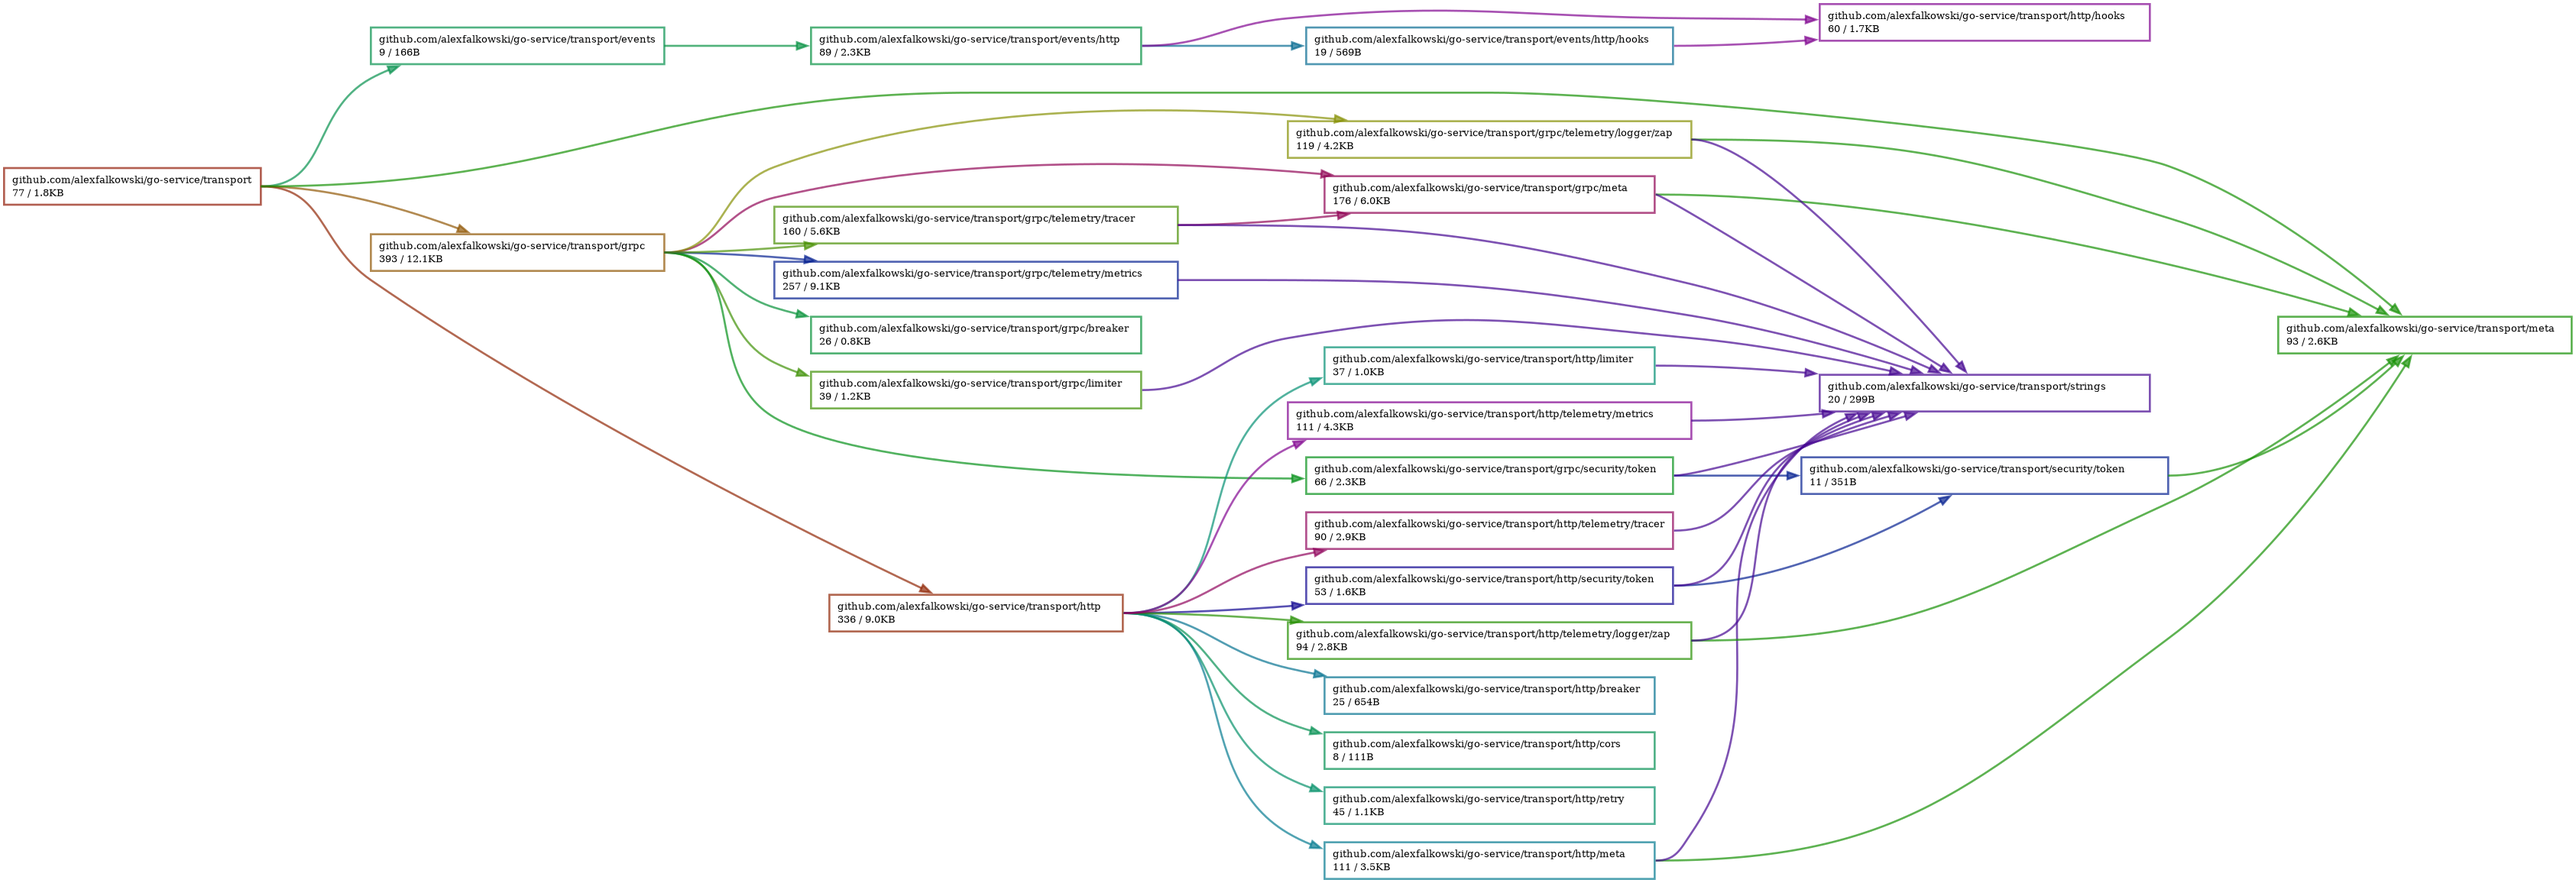
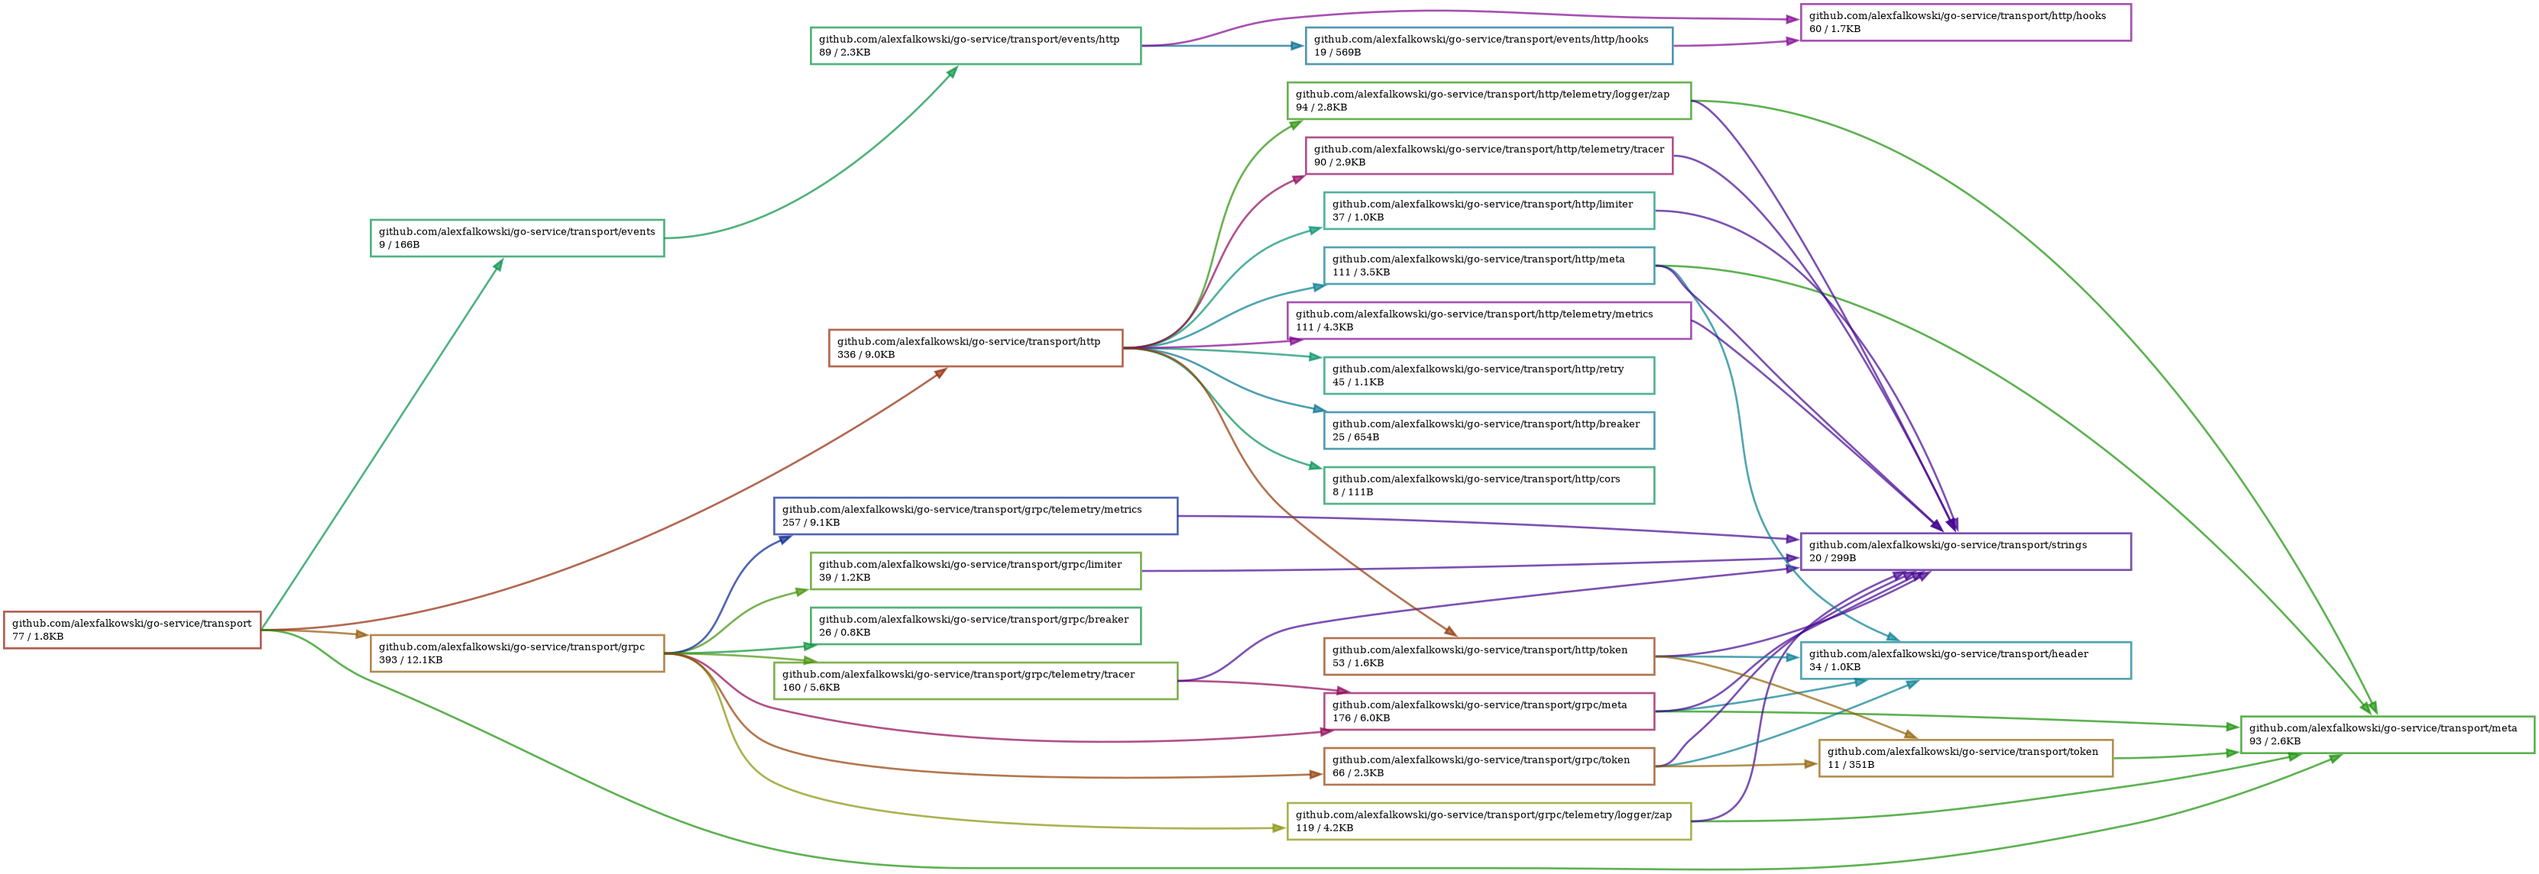
feat(transport): remove security package (#931)

diff --git a/transport/http/client.go b/transport/http/client.go
@@ -5,7 +5,7 @@ import (
 	"net/http"
 	"time"
 
-	st "github.com/alexfalkowski/go-service/crypto/tls"
+	ct "github.com/alexfalkowski/go-service/crypto/tls"
 	"github.com/alexfalkowski/go-service/env"
 	nh "github.com/alexfalkowski/go-service/net/http"
 	"github.com/alexfalkowski/go-service/net/http/h2c"
@@ -15,10 +15,10 @@ import (
 	"github.com/alexfalkowski/go-service/transport/http/breaker"
 	"github.com/alexfalkowski/go-service/transport/http/meta"
 	"github.com/alexfalkowski/go-service/transport/http/retry"
-	tkn "github.com/alexfalkowski/go-service/transport/http/security/token"
 	logger "github.com/alexfalkowski/go-service/transport/http/telemetry/logger/zap"
 	hm "github.com/alexfalkowski/go-service/transport/http/telemetry/metrics"
-	ht "github.com/alexfalkowski/go-service/transport/http/telemetry/tracer"
+	tt "github.com/alexfalkowski/go-service/transport/http/telemetry/tracer"
+	ht "github.com/alexfalkowski/go-service/transport/http/token"
 	"github.com/klauspost/compress/gzhttp"
 	"go.opentelemetry.io/otel/metric"
 	"go.opentelemetry.io/otel/trace"
@@ -125,12 +125,12 @@ func WithClientUserAgent(userAgent env.UserAgent) ClientOption {
 }
 
 // WithClientTLS for HTTP.
-func WithClientTLS(sec *st.Config) (ClientOption, error) {
-	if !st.IsEnabled(sec) {
+func WithClientTLS(sec *ct.Config) (ClientOption, error) {
+	if !ct.IsEnabled(sec) {
 		return none, nil
 	}
 
-	conf, err := st.NewConfig(sec)
+	conf, err := ct.NewConfig(sec)
 	if err != nil {
 		return none, err
 	}
@@ -167,7 +167,7 @@ func NewRoundTripper(opts ...ClientOption) http.RoundTripper {
 	}
 
 	if os.gen != nil {
-		hrt = tkn.NewRoundTripper(os.gen, hrt)
+		hrt = ht.NewRoundTripper(os.gen, hrt)
 	}
 
 	if os.logger != nil {
@@ -179,7 +179,7 @@ func NewRoundTripper(opts ...ClientOption) http.RoundTripper {
 	}
 
 	if os.tracer != nil {
-		hrt = ht.NewRoundTripper(os.tracer, hrt)
+		hrt = tt.NewRoundTripper(os.tracer, hrt)
 	}
 
 	hrt = meta.NewRoundTripper(os.userAgent, hrt)

diff --git a/transport/http/server.go b/transport/http/server.go
@@ -4,21 +4,21 @@ import (
 	"net/http"
 	"time"
 
-	st "github.com/alexfalkowski/go-service/crypto/tls"
+	ct "github.com/alexfalkowski/go-service/crypto/tls"
 	"github.com/alexfalkowski/go-service/env"
 	"github.com/alexfalkowski/go-service/errors"
 	lm "github.com/alexfalkowski/go-service/limiter"
 	sh "github.com/alexfalkowski/go-service/net/http"
 	"github.com/alexfalkowski/go-service/security/token"
 	"github.com/alexfalkowski/go-service/server"
-	t "github.com/alexfalkowski/go-service/time"
+	st "github.com/alexfalkowski/go-service/time"
 	"github.com/alexfalkowski/go-service/transport/http/cors"
 	hl "github.com/alexfalkowski/go-service/transport/http/limiter"
 	"github.com/alexfalkowski/go-service/transport/http/meta"
-	tkn "github.com/alexfalkowski/go-service/transport/http/security/token"
 	logger "github.com/alexfalkowski/go-service/transport/http/telemetry/logger/zap"
 	"github.com/alexfalkowski/go-service/transport/http/telemetry/metrics"
 	"github.com/alexfalkowski/go-service/transport/http/telemetry/tracer"
+	ht "github.com/alexfalkowski/go-service/transport/http/token"
 	"github.com/klauspost/compress/gzhttp"
 	"github.com/sethvargo/go-limiter"
 	"github.com/urfave/negroni/v3"
@@ -68,7 +68,7 @@ func NewServer(params ServerParams) (*Server, error) {
 	}
 
 	if params.Verifier != nil {
-		n.Use(tkn.NewHandler(params.Verifier))
+		n.Use(ht.NewHandler(params.Verifier))
 	}
 
 	if params.Limiter != nil {
@@ -109,11 +109,11 @@ func config(cfg *Config) (*sh.Config, error) {
 		Address: cfg.GetAddress(":8080"),
 	}
 
-	if !st.IsEnabled(cfg.TLS) {
+	if !ct.IsEnabled(cfg.TLS) {
 		return c, nil
 	}
 
-	tls, err := st.NewConfig(cfg.TLS)
+	tls, err := ct.NewConfig(cfg.TLS)
 	c.TLS = tls
 
 	return c, err
@@ -124,5 +124,5 @@ func timeout(cfg *Config) time.Duration {
 		return time.Minute
 	}
 
-	return t.MustParseDuration(cfg.Timeout)
+	return st.MustParseDuration(cfg.Timeout)
 }

diff --git a/transport/grpc/token/token.go b/transport/grpc/token/token.go
@@ -5,10 +5,10 @@ import (
 	"fmt"
 	"path"
 
-	"github.com/alexfalkowski/go-service/security/header"
 	"github.com/alexfalkowski/go-service/security/token"
-	st "github.com/alexfalkowski/go-service/transport/security/token"
+	"github.com/alexfalkowski/go-service/transport/header"
 	"github.com/alexfalkowski/go-service/transport/strings"
+	tt "github.com/alexfalkowski/go-service/transport/token"
 	middleware "github.com/grpc-ecosystem/go-grpc-middleware/v2"
 	"google.golang.org/grpc"
 	"google.golang.org/grpc/codes"
@@ -24,7 +24,7 @@ func UnaryServerInterceptor(verifier token.Verifier) grpc.UnaryServerInterceptor
 			return handler(ctx, req)
 		}
 
-		ctx, err := st.Verify(ctx, verifier)
+		ctx, err := tt.Verify(ctx, verifier)
 		if err != nil {
 			return nil, status.Errorf(codes.Unauthenticated, "verify token: %s", err.Error())
 		}
@@ -43,7 +43,7 @@ func StreamServerInterceptor(verifier token.Verifier) grpc.StreamServerIntercept
 
 		ctx := stream.Context()
 
-		ctx, err := st.Verify(ctx, verifier)
+		ctx, err := tt.Verify(ctx, verifier)
 		if err != nil {
 			return status.Errorf(codes.Unauthenticated, "verify token: %s", err.Error())
 		}

diff --git a/transport/http/token/token.go b/transport/http/token/token.go
@@ -6,10 +6,10 @@ import (
 
 	"github.com/alexfalkowski/go-service/errors"
 	nh "github.com/alexfalkowski/go-service/net/http"
-	"github.com/alexfalkowski/go-service/security/header"
 	"github.com/alexfalkowski/go-service/security/token"
-	st "github.com/alexfalkowski/go-service/transport/security/token"
+	"github.com/alexfalkowski/go-service/transport/header"
 	"github.com/alexfalkowski/go-service/transport/strings"
+	tt "github.com/alexfalkowski/go-service/transport/token"
 )
 
 // Handler for token.
@@ -31,7 +31,7 @@ func (h *Handler) ServeHTTP(res http.ResponseWriter, req *http.Request, next htt
 
 	ctx := req.Context()
 
-	ctx, err := st.Verify(ctx, h.verifier)
+	ctx, err := tt.Verify(ctx, h.verifier)
 	if err != nil {
 		nh.WriteError(req.Context(), res, errors.Prefix("verify token", err), http.StatusUnauthorized)
 

diff --git a/transport/grpc/client.go b/transport/grpc/client.go
@@ -10,10 +10,10 @@ import (
 	t "github.com/alexfalkowski/go-service/time"
 	"github.com/alexfalkowski/go-service/transport/grpc/breaker"
 	"github.com/alexfalkowski/go-service/transport/grpc/meta"
-	tkn "github.com/alexfalkowski/go-service/transport/grpc/security/token"
 	logger "github.com/alexfalkowski/go-service/transport/grpc/telemetry/logger/zap"
 	gm "github.com/alexfalkowski/go-service/transport/grpc/telemetry/metrics"
 	gt "github.com/alexfalkowski/go-service/transport/grpc/telemetry/tracer"
+	tkn "github.com/alexfalkowski/go-service/transport/grpc/token"
 	ri "github.com/grpc-ecosystem/go-grpc-middleware/v2/interceptors/retry"
 	ti "github.com/grpc-ecosystem/go-grpc-middleware/v2/interceptors/timeout"
 	"go.opentelemetry.io/otel/metric"

diff --git a/security/token/token.go b/security/token/token.go
@@ -16,28 +16,4 @@ type (
 		// Verify a token or error.
 		Verify(ctx context.Context, token []byte) (context.Context, error)
 	}
-
-	// Tokenizer will generate and verify.
-	Tokenizer interface {
-		Generator
-		Verifier
-
-		// GenerateConfig to be used by the Tokenizer.
-		GenerateConfig() (string, string, error)
-	}
-
-	// NoopTokenizer for token.
-	NoopTokenizer struct{}
 )
-
-func (*NoopTokenizer) GenerateConfig() (string, string, error) {
-	return "", "", nil
-}
-
-func (*NoopTokenizer) Generate(ctx context.Context) (context.Context, []byte, error) {
-	return ctx, nil, nil
-}
-
-func (*NoopTokenizer) Verify(ctx context.Context, _ []byte) (context.Context, error) {
-	return ctx, nil
-}

diff --git a/transport/grpc/server.go b/transport/grpc/server.go
@@ -13,10 +13,10 @@ import (
 	t "github.com/alexfalkowski/go-service/time"
 	gl "github.com/alexfalkowski/go-service/transport/grpc/limiter"
 	"github.com/alexfalkowski/go-service/transport/grpc/meta"
-	tkn "github.com/alexfalkowski/go-service/transport/grpc/security/token"
 	logger "github.com/alexfalkowski/go-service/transport/grpc/telemetry/logger/zap"
 	"github.com/alexfalkowski/go-service/transport/grpc/telemetry/metrics"
 	"github.com/alexfalkowski/go-service/transport/grpc/telemetry/tracer"
+	tkn "github.com/alexfalkowski/go-service/transport/grpc/token"
 	"github.com/sethvargo/go-limiter"
 	"go.opentelemetry.io/otel/metric"
 	"go.opentelemetry.io/otel/trace"

diff --git a/transport/grpc/meta/meta.go b/transport/grpc/meta/meta.go
@@ -8,7 +8,7 @@ import (
 
 	"github.com/alexfalkowski/go-service/env"
 	"github.com/alexfalkowski/go-service/meta"
-	"github.com/alexfalkowski/go-service/security/header"
+	"github.com/alexfalkowski/go-service/transport/header"
 	m "github.com/alexfalkowski/go-service/transport/meta"
 	ts "github.com/alexfalkowski/go-service/transport/strings"
 	"github.com/google/uuid"

diff --git a/transport/http/meta/meta.go b/transport/http/meta/meta.go
@@ -8,7 +8,7 @@ import (
 
 	"github.com/alexfalkowski/go-service/env"
 	"github.com/alexfalkowski/go-service/meta"
-	"github.com/alexfalkowski/go-service/security/header"
+	"github.com/alexfalkowski/go-service/transport/header"
 	m "github.com/alexfalkowski/go-service/transport/meta"
 	ts "github.com/alexfalkowski/go-service/transport/strings"
 	"github.com/google/uuid"

diff --git a/transport/http/auth_test.go b/transport/http/auth_test.go
@@ -12,7 +12,7 @@ import (
 
 	"github.com/alexfalkowski/go-service/net/http/rpc"
 	"github.com/alexfalkowski/go-service/test"
-	ht "github.com/alexfalkowski/go-service/transport/http/security/token"
+	ht "github.com/alexfalkowski/go-service/transport/http/token"
 	. "github.com/smartystreets/goconvey/convey" //nolint:revive
 	"go.uber.org/fx/fxtest"
 )

diff --git a/transport/header/header_test.go b/transport/header/header_test.go
@@ -3,7 +3,7 @@ package header_test
 import (
 	"testing"
 
-	"github.com/alexfalkowski/go-service/security/header"
+	"github.com/alexfalkowski/go-service/transport/header"
 	. "github.com/smartystreets/goconvey/convey" //nolint:revive
 )
 
